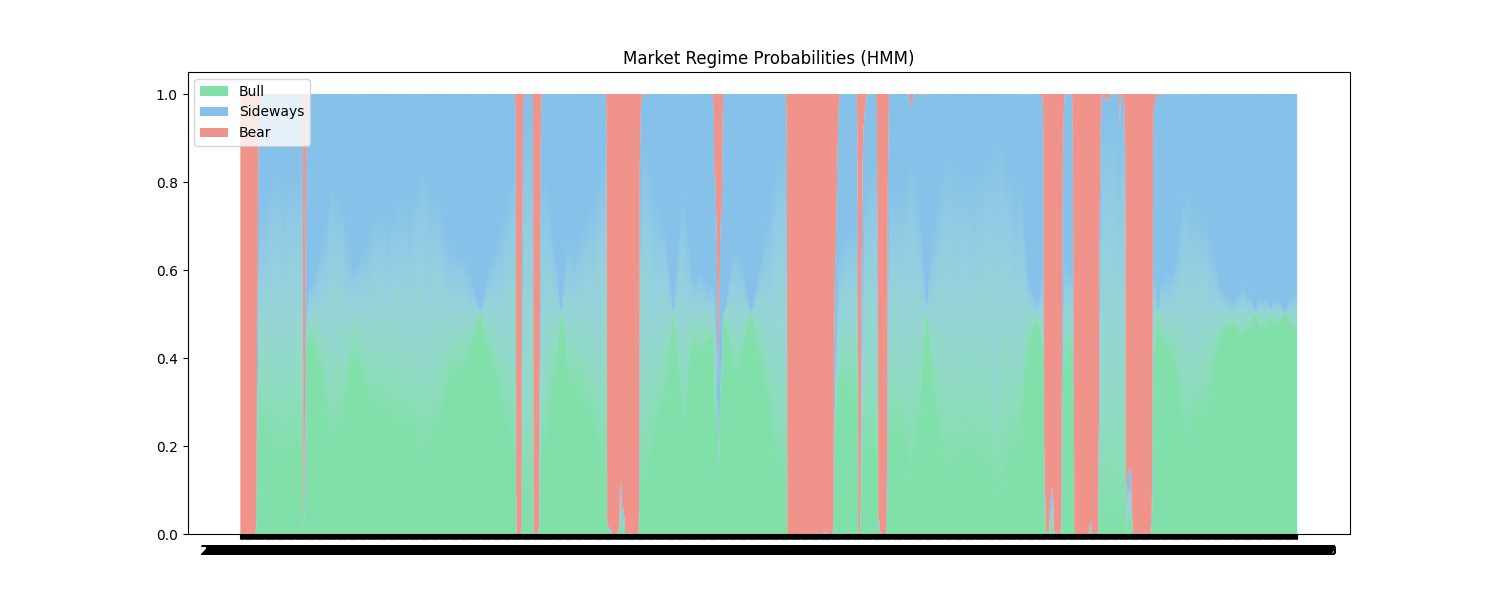
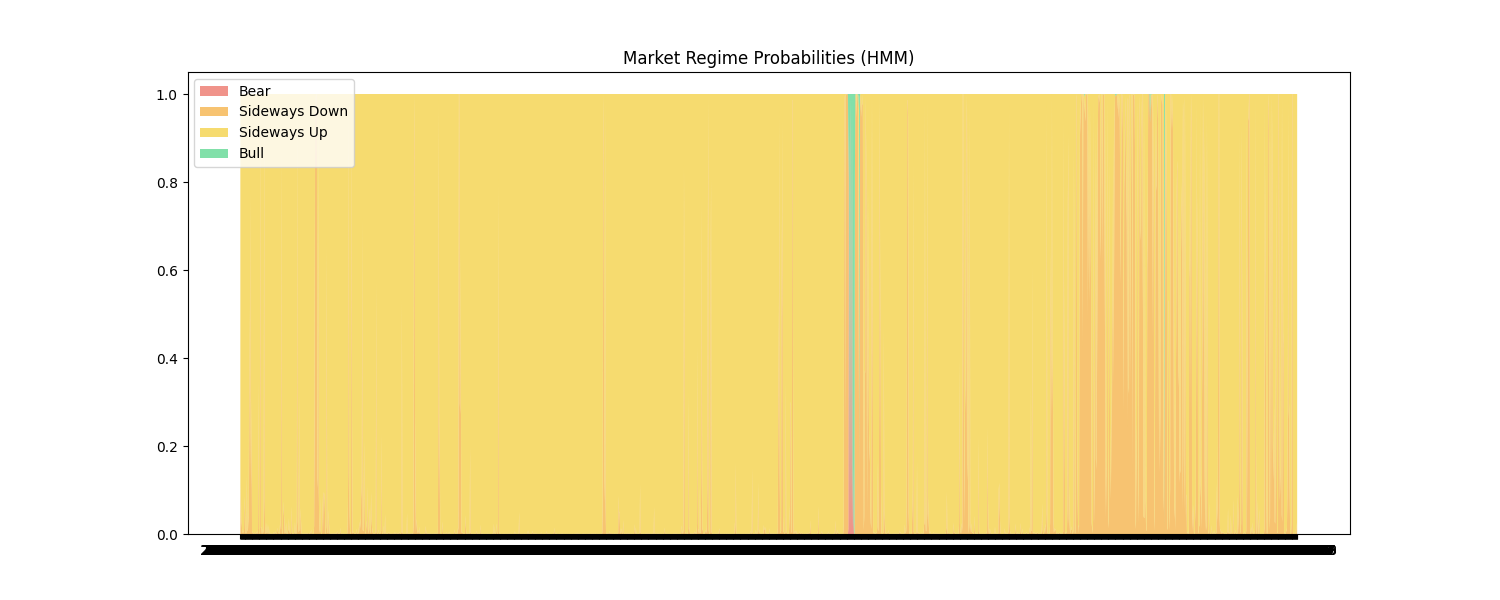
changes

diff --git a/Final/3_Agent_Select_3/agents_moe.py b/Final/3_Agent_Select_3/agents_moe.py
@@ -16,9 +16,9 @@ class ActorMoE(nn.Module):
             nn.ReLU()
         )
         
-        # Expert heads (Bull, Sideways, Bear)
+        # Expert heads (Bear, Sideways Down, Sideways Up, Bull)
         self.experts = nn.ModuleList([
-            nn.Linear(hidden, num_assets) for _ in range(3)
+            nn.Linear(hidden, num_assets) for _ in range(4)
         ])
 
     def forward(self, x):
@@ -26,17 +26,17 @@ class ActorMoE(nn.Module):
         # In our env, we'll append the 3 regime probabilities to the end of the observation
         # obs_dim = (n_assets * n_indicators) + covariance_matrix_elements + 3
         
-        # Probabilities are the last 3 elements
-        regime_probs = x[:, -3:] # [batch, 3]
+        # Probabilities are the last 4 elements
+        regime_probs = x[:, -4:] # [batch, 4]
         
         # Extract features
         features = self.feature_extractor(x) # [batch, hidden]
         
         # Get expert outputs
-        expert_outputs = torch.stack([head(features) for head in self.experts], dim=1) # [batch, 3, num_assets]
+        expert_outputs = torch.stack([head(features) for head in self.experts], dim=1) # [batch, 4, num_assets]
         
-        # Weighted sum based on probabilities (MoE)
-        # regime_probs view is [batch, 3, 1] to multiply with [batch, 3, num_assets]
+        # expert_outputs view is [batch, 4, num_assets]
+        # regime_probs view is [batch, 4, 1] to multiply with [batch, 4, num_assets]
         combined_logits = torch.sum(expert_outputs * regime_probs.unsqueeze(-1), dim=1) # [batch, num_assets]
         
         # Dirichlet concentrations

diff --git a/Final/3_Agent_Select_3/hmm_probabilistic.py b/Final/3_Agent_Select_3/hmm_probabilistic.py
@@ -5,7 +5,7 @@ import matplotlib.pyplot as plt
 import os
 
 class ProbabilisticHMM:
-    def __init__(self, n_regimes=3):
+    def __init__(self, n_regimes=4):
         self.n_regimes = n_regimes
         self.model = hmm.GaussianHMM(
             n_components=n_regimes, 
@@ -54,9 +54,10 @@ def plot_regime_probs(prob_df, save_path='results/regime_probabilities.png'):
     os.makedirs('results', exist_ok=True)
     plt.figure(figsize=(15, 6))
     plt.stackplot(prob_df['date'], 
-                  prob_df['regime_p_0'], prob_df['regime_p_1'], prob_df['regime_p_2'],
-                  labels=['Bull', 'Sideways', 'Bear'],
-                  colors=['#2ecc71', '#3498db', '#e74c3c'], alpha=0.6)
+                  prob_df['regime_p_0'], prob_df['regime_p_1'], 
+                  prob_df['regime_p_2'], prob_df['regime_p_3'],
+                  labels=['Bear', 'Sideways Down', 'Sideways Up', 'Bull'],
+                  colors=['#e74c3c', '#f39c12', '#f1c40f', '#2ecc71'], alpha=0.6)
     plt.title('Market Regime Probabilities (HMM)')
     plt.legend(loc='upper left')
     plt.savefig(save_path)

diff --git a/Final/3_Agent_Select_3/main_moe.py b/Final/3_Agent_Select_3/main_moe.py
@@ -1,6 +1,9 @@
 """
 Main Entry point for Probabilistic MoE FinRL System.
 """
+import os
+os.environ["PYTORCH_ENABLE_MPS_FALLBACK"] = "1"
+
 import torch
 import torch.optim as optim
 import numpy as np
@@ -26,7 +29,13 @@ TICKERS = sorted(list(set(TICKER_LIST)))
 
 START_DATE = "2015-01-01"
 END_DATE = "2024-01-01"
-DEVICE = "cuda" if torch.cuda.is_available() else "cpu"
+if torch.cuda.is_available():
+    DEVICE = "cuda"
+elif torch.backends.mps.is_available():
+    DEVICE = "mps"
+else:
+    DEVICE = "cpu"
+print(f"Using device: {DEVICE}")
 
 # ============================================================================
 # Data Pipeline
@@ -76,7 +85,7 @@ df_exo = df_exo.sort_values(["date", "tic"]).reset_index(drop=True)
 
 # HMM
 print("Fitting Probabilistic Macro HMM...")
-hmm = ProbabilisticHMM(n_regimes=3)
+hmm = ProbabilisticHMM(n_regimes=4)
 hmm.fit(df_exo)
 prob_df = hmm.predict_proba(df_exo)
 plot_regime_probs(prob_df, save_path='moe_regime_probs.png')

diff --git a/Final/3_Agent_Select_3/env_mixture.py b/Final/3_Agent_Select_3/env_mixture.py
@@ -48,7 +48,7 @@ class MixturePortfolioEnv(gym.Env):
         
         # Append probabilities
         probs = self.regime_probs_df[self.regime_probs_df.date == date].iloc[0]
-        prob_vec = probs[['regime_p_0', 'regime_p_1', 'regime_p_2']].values.astype(np.float32)
+        prob_vec = probs[['regime_p_0', 'regime_p_1', 'regime_p_2', 'regime_p_3']].values.astype(np.float32)
         
         return np.concatenate([state, prob_vec])
 
@@ -92,3 +92,10 @@ class MixturePortfolioEnv(gym.Env):
         
         self.state = self._get_state()
         return self.state, reward, self.terminal, False, {}
+
+
+
+
+
+#try with one agent, two and four -- compare, keep all other paratmers of agents the same 
+# try select one agent, then compare with existing probabilistic mixture system
